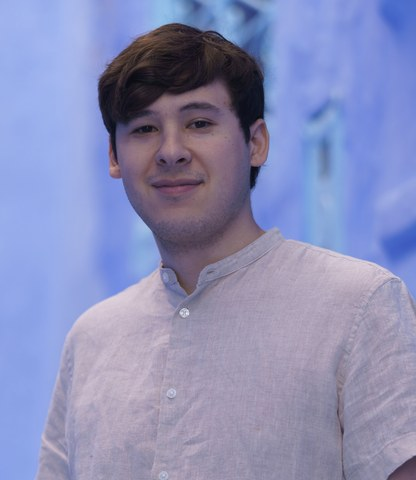
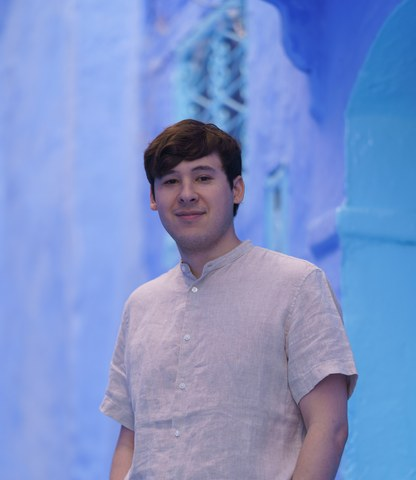
Use the full-length shot for the PI photo
Head and torso rather than the tight face crop, from juanchamorro.jpg.

diff --git a/TODO.md b/TODO.md
@@ -14,8 +14,8 @@ until the DNS ticket is filed, so all of this can be worked through at leisure.
 - [ ] Photo for Dhiya Srikanth. Currently a "DS" monogram placeholder in
       `src/pages/people.html`. Add `assets/img/dhiyasrikanth.jpg` and swap the
       `<div class="mono">` for an `<img class="photo">` like the other students.
-- [x] PI photo. Replaced 2026-08-12 with a crop of
-      `OneDrive/Work/CMU/Website/juanchamorro-closeup.png`.
+- [x] PI photo. Replaced 2026-08-12 with a crop of the full-length
+      `OneDrive/Work/CMU/Website/juanchamorro.jpg`.
 - [ ] Confirm the banner (a campus aerial) is the one to keep.
 
 ## Content to verify
